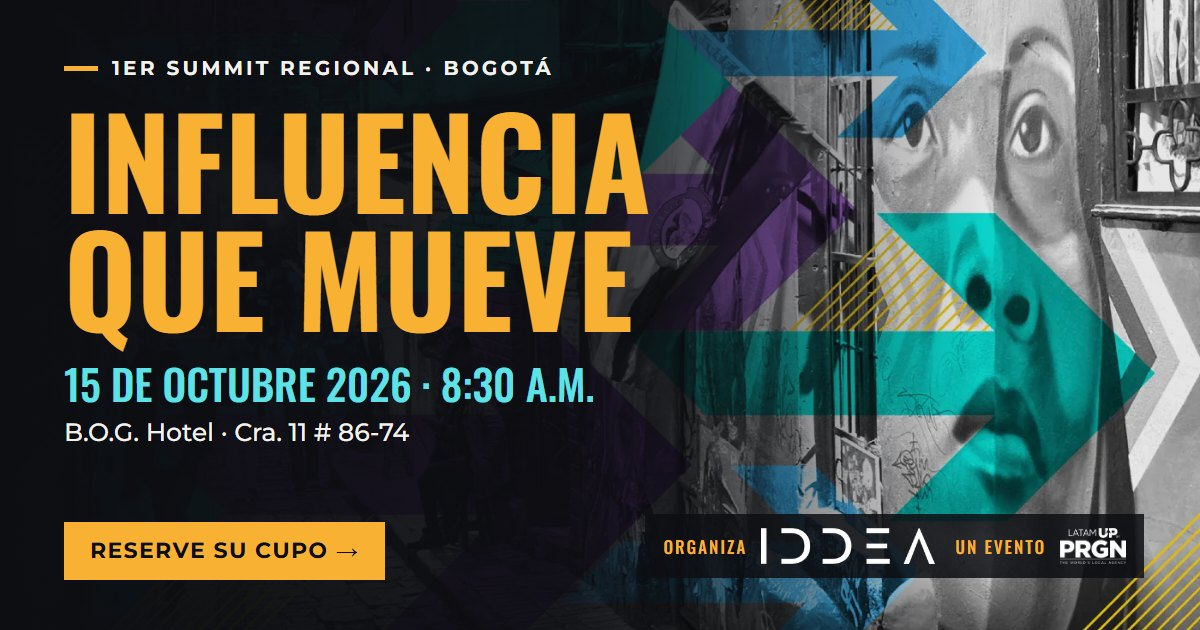
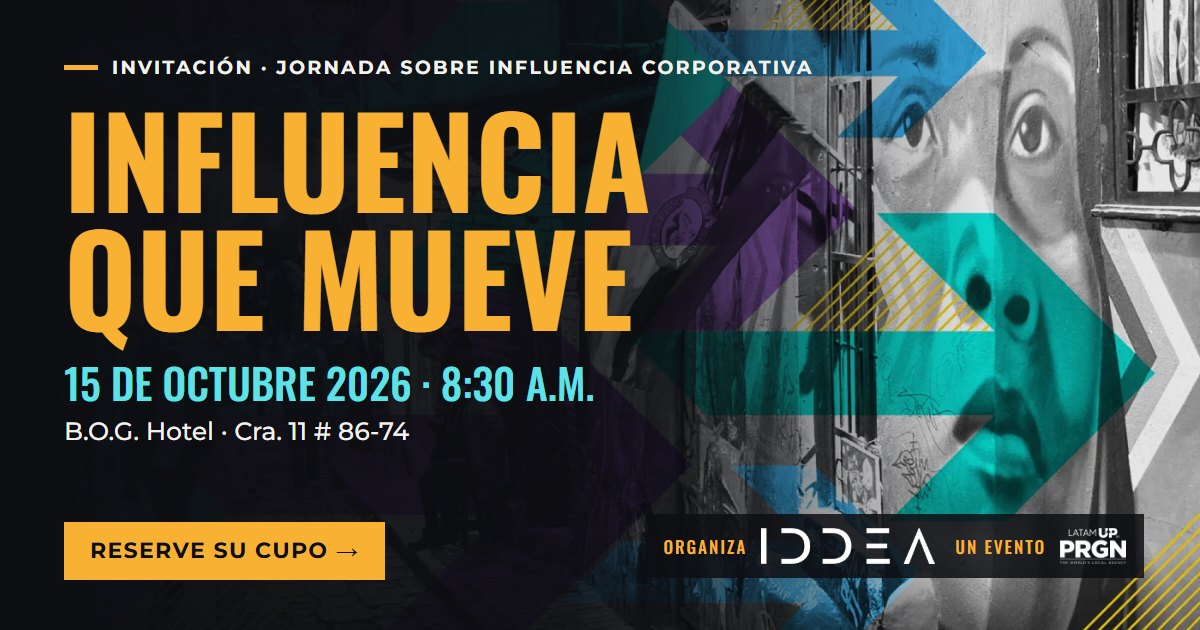
Ajustes ronda 2 de comentarios

diff --git a/index.html b/index.html
@@ -13,16 +13,16 @@
   <meta property="og:description" content="Un encuentro para líderes de comunicación que llevan su estrategia al centro del negocio. 15 de octubre de 2026 · 8:30 a.m. · B.O.G. Hotel, Bogotá.">
   <meta property="og:url" content="https://wearedatalab.github.io/latam-summit/">
   <meta property="og:site_name" content="Influencia que Mueve · Latam Summit">
-  <meta property="og:image" content="https://wearedatalab.github.io/latam-summit/assets/og.jpg?v=2">
-  <meta property="og:image:secure_url" content="https://wearedatalab.github.io/latam-summit/assets/og.jpg?v=2">
+  <meta property="og:image" content="https://wearedatalab.github.io/latam-summit/assets/og.jpg?v=3">
+  <meta property="og:image:secure_url" content="https://wearedatalab.github.io/latam-summit/assets/og.jpg?v=3">
   <meta property="og:image:type" content="image/jpeg">
   <meta property="og:image:width" content="1200">
   <meta property="og:image:height" content="630">
-  <meta property="og:image:alt" content="Influencia que Mueve · 1er Summit Regional Bogotá. 15 de octubre 2026, 8:30 a.m., B.O.G. Hotel. Reserve su cupo.">
+  <meta property="og:image:alt" content="Influencia que Mueve · Invitación a una jornada sobre influencia corporativa. 15 de octubre 2026, 8:30 a.m., B.O.G. Hotel. Reserve su cupo.">
   <meta name="twitter:card" content="summary_large_image">
   <meta name="twitter:title" content="Influencia que Mueve · Latam Summit Bogotá">
   <meta name="twitter:description" content="15 de octubre de 2026 · 8:30 a.m. · B.O.G. Hotel, Bogotá. Reserve su cupo.">
-  <meta name="twitter:image" content="https://wearedatalab.github.io/latam-summit/assets/og.jpg?v=2">
+  <meta name="twitter:image" content="https://wearedatalab.github.io/latam-summit/assets/og.jpg?v=3">
   <link rel="icon" href="favicon.svg" type="image/svg+xml">
   <link rel="preconnect" href="https://fonts.googleapis.com">
   <link rel="preconnect" href="https://fonts.gstatic.com" crossorigin>
@@ -82,7 +82,7 @@
         <i class="chev chev--cyan"></i><i class="chev chev--violet"></i><i class="chev chev--amber"></i>
       </div>
       <div class="wrap hero__in">
-        <p class="eyebrow"><span class="dash" aria-hidden="true"></span>1er Summit Regional · Bogotá</p>
+        <p class="eyebrow"><span class="dash" aria-hidden="true"></span>Invitación a una jornada sobre influencia corporativa</p>
         <h1 id="hero-title" class="hero__title">
           Influencia <span>que mueve</span>
         </h1>
@@ -111,14 +111,14 @@
     <section class="manifesto" id="manifiesto" aria-labelledby="manif-title">
       <div class="wrap manifesto__grid">
         <div class="manifesto__head">
-          <p class="eyebrow eyebrow--amber"><span class="dash" aria-hidden="true"></span>Por qué ahora</p>
-          <h2 id="manif-title" class="h2">Hoy, un buen discurso <em>ya no alcanza.</em></h2>
+          <p class="eyebrow eyebrow--amber"><span class="dash" aria-hidden="true"></span>Una mañana para entender</p>
+          <h2 id="manif-title" class="h2">¿Qué es influencia corporativa <em>y cómo funciona hoy?</em></h2>
           <div class="hatch" aria-hidden="true"></div>
         </div>
         <ol class="manifesto__list">
-          <li><span class="num" aria-hidden="true">01</span><p>La influencia real <strong>no es cosmética</strong> ni depende de una gran campaña. Es el motor que mueve los negocios y se construye cuando la narrativa y la acción van de la mano.</p></li>
-          <li><span class="num" aria-hidden="true">02</span><p>Vamos a hablar de lo que funciona hoy: <strong>la comunicación como un sistema estratégico</strong> capaz de generar confianza, impactar decisiones y mover a las personas de verdad.</p></li>
-          <li><span class="num" aria-hidden="true">03</span><p>Un espacio de reflexión para aprender cómo los líderes de comunicación están <strong>llevando su estrategia al centro del negocio</strong> y haciendo que las cosas pasen.</p></li>
+          <li><span class="num" aria-hidden="true">01</span><p>La red global PRGN realizó una encuesta mundial a <strong>más de 1.800 líderes</strong> de negocio, mercadeo y comunicaciones en <strong>48 países</strong> para entender qué es la influencia y cómo opera en el ecosistema corporativo.</p></li>
+          <li><span class="num" aria-hidden="true">02</span><p>Los resultados son claros: <strong>9 de cada 10 líderes</strong> consideran que la influencia es crítica para el éxito de sus organizaciones, pero muy pocos sienten que la están gestionando adecuadamente.</p></li>
+          <li><span class="num" aria-hidden="true">03</span><p>Por eso tendremos una conversación con el <strong>sector privado colombiano</strong> y con expertos de México y Brasil, para entender cuál es su impacto en América Latina.</p></li>
         </ol>
       </div>
     </section>
@@ -141,8 +141,8 @@
           </li>
           <li class="pillar pillar--violet">
             <span class="pillar__k" aria-hidden="true">Casos</span>
-            <h3>Casos de estudio que explican cómo lo lograron</h3>
-            <p>Casos de estudio a fondo y un espacio para conectar, compartir y conocer el poder de la comunicación en la influencia.</p>
+            <h3>Casos de estudio de empresas en Colombia</h3>
+            <p>Casos de estudio de empresas en Colombia, a fondo, y un espacio para conectar, compartir y conocer el poder de la comunicación en la influencia.</p>
           </li>
         </ul>
       </div>
@@ -170,8 +170,8 @@
         <ol class="timeline">
           <li><span class="timeline__n" aria-hidden="true">01</span><div><h3>Recepción y networking</h3><p>Café de bienvenida y registro.</p></div></li>
           <li><span class="timeline__n" aria-hidden="true">02</span><div><h3>Apertura institucional</h3><p>Bienvenida y objetivos del encuentro.</p></div></li>
-          <li class="is-key"><span class="timeline__n" aria-hidden="true">03</span><div><h3>Caso de estudio LATAM</h3><p>Retos y oportunidades.</p></div></li>
-          <li><span class="timeline__n" aria-hidden="true">04</span><div><h3>Conversación</h3><p>¿Cómo se logra construir influencia de impacto en el poder público y en los tomadores de decisión?</p></div></li>
+          <li class="is-key"><span class="timeline__n" aria-hidden="true">03</span><div><h3>Caso de estudio LATAM Airlines</h3><p>Retos y oportunidades.</p></div></li>
+          <li><span class="timeline__n" aria-hidden="true">04</span><div><h3>Influencia en autoridades y tomadores de decisión, la clave para construir entornos favorables</h3></div></li>
           <li class="is-key"><span class="timeline__n" aria-hidden="true">05</span><div><h3>Influencia que mueve a América Latina</h3><p>Una mirada que profundiza cómo se consolida la influencia en América Latina.</p></div></li>
         </ol>
       </div>
@@ -185,7 +185,7 @@
       </picture>
       <div class="who__body">
         <p class="eyebrow eyebrow--cyan"><span class="dash" aria-hidden="true"></span>Para quién es</p>
-        <h2 id="who-title" class="h2">Para quienes <em>mueven</em> la reputación de su empresa</h2>
+        <h2 id="who-title" class="h2">¿A quiénes va <em>dirigido?</em></h2>
         <ul class="who__list">
           <li>Directores y equipos de comunicación corporativa y asuntos públicos.</li>
           <li>Líderes de marketing y marca.</li>
